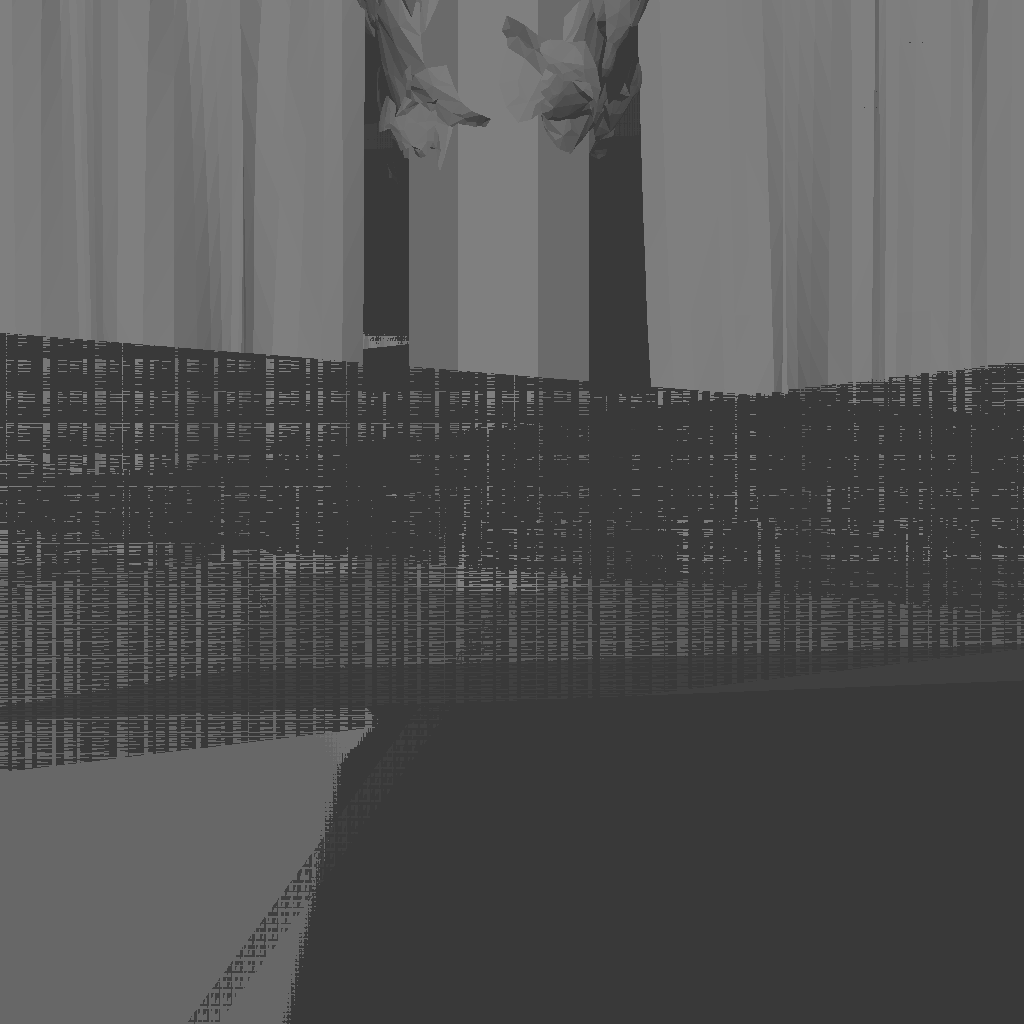
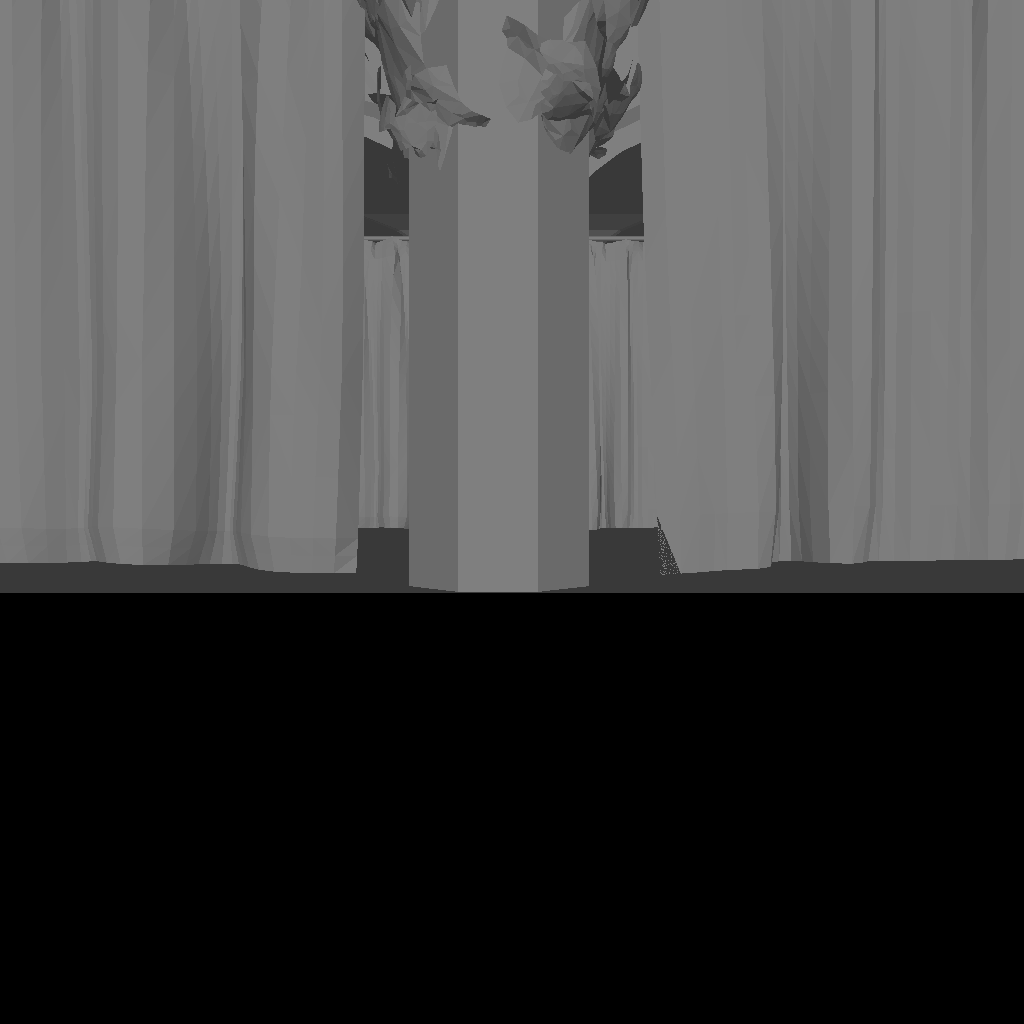
fix: 补上近平面剔除；上一版提交里的 Sponza 数据全部作废重测
一、问题
把相机放进建筑内部之后，262 267 个三角形里有 7 788 个（2.97%）至少有一个顶点落在
相机平面上或其后 —— 实测相机到最近顶点的距离只有 1e-5。透视除法会把这种顶点放大到
无穷远，它们被光栅化成盖满屏幕的巨大多边形、再带上毫无意义的深度，于是：
  · 普通 Z-Buffer 要 5 871.91 ms，几乎全花在这些本不该存在的巨大多边形上；
  · 四种算法之间的像素差异高达 52.66%（同一批三角形、同一套深度定义）；
  · 上一版汇报的「简单模式快 14.0×」是这个假象的产物，不是真实的算法收益。

二、改动
Model::mvpTransform 现在自己算齐次坐标并记下 w，顶点落在近平面之内就标记为无效；
Model::isFaceValid(i) 判断一张面的三个顶点是否都有效，五个光栅化入口（普通 z-Buffer、
经典/特化扫描线、简单模式、完整模式）遇到无效面直接整张跳过。
阈值取场景自己的近平面距离（Scene::getNear），所以自带模型（都在相机前方 0.88 以外、
近平面 0.3）完全不受影响 —— verify.sh 36/36 逐字节一致，这是它没有回归的直接证据。

三、重测结果

  算法                 渲染(ms)    建结构(ms)   总(ms)
  普通 Z-Buffer           65.42        —         65.42
  经典扫描线            43903.3      17.65     43921
  特化扫描线              49.21        —         49.21
  简单模式                46.22       0.20       46.42
  完整模式（BVH）         67.68      68.48      136.36
  完整模式（八叉树）      72.78      21.00       93.99

  · 普通 Z-Buffer 5871.91 -> 65.42 ms（-98.9%），一刀砍掉 99% 的工作量；
  · 四算法与普通 Z-Buffer 的像素差异 52.66% -> 3.40%（与自带模型的正常水平一致）；
  · 简单模式相对普通 Z-Buffer 的真实收益是 1.41×，此前汇报的 14.0× 作废；
  · 经典扫描线仍然失效：43903 ms，输出整屏只有一种颜色（纯色 109）。
    活动边表在没有裁剪、三角形又远超视口时会被撑爆，是数据结构的固有弱点，
    与本次改动无关（改动前后都是 44 秒量级）。

四、剔除统计（重测）
BVH 32 481 个节点只剔掉 220 棵子树（0.7%），三角形级 247 935 个测试里 161 660 个通过
（剔掉 35%）。和体素城市相反：室内场景里物体空间的包围盒投影到屏幕上又大又互相重叠，
粗层判据很难判死，真正干活的是逐三角形的金字塔测试。

README 的 sponza 一节和 6 张结果图已按重测数据全部更新。
验证：verify.sh 36/36 逐字节一致；MSBuild Release|x64 通过。

diff --git a/src/model.hpp b/src/model.hpp
@@ -102,7 +102,22 @@ public:
 	void calAxisParamsObject();
 	/*! @brief 清除变换后的顶点数组
 	 */
-	void clear() { delete[] m_mvpVertices; m_mvpVertices = nullptr; }
+	void clear() { delete[] m_mvpVertices; m_mvpVertices = nullptr; m_vertexValid.clear(); }
+	/*! @brief 判断一张面是否值得光栅化
+	 *
+	 *  只要有一个顶点落在近平面之内（离相机比近平面还近），透视除法就会把它的屏幕坐标
+	 *  放大到没有意义，而本工程没有做真正的视锥裁剪 —— 这种面会被光栅化成巨大的多边形
+	 *  并带上毫无意义的深度，把正确的结果整个盖掉。所以整张面直接跳过。
+	 *  自带模型都在相机前方 0.88 以外，默认近平面距离 0.3，不会误伤。
+	 *  @param[in] i: 面的索引
+	 *  @return true 表示该面的三个顶点都在近平面之外
+	 */
+	inline bool isFaceValid(int i) const {
+		if (m_vertexValid.empty()) {
+			return true;
+		}
+		return m_vertexValid[m_faces[i][0]] && m_vertexValid[m_faces[i][1]] && m_vertexValid[m_faces[i][2]];
+	}
 
 	/*! @brief 获取模型的顶点数量
 	 *  @return 模型的顶点数量
@@ -126,6 +141,8 @@ private:
 	/*! @brief 模型进行MVP变换后的顶点数组
 	 */
 	glm::vec3* m_mvpVertices;
+	/*! @brief 每个顶点是否在近平面之外（0 表示离相机太近，含该顶点的面直接跳过） */
+	std::vector<unsigned char> m_vertexValid;
 	/*! @brief 模型的面数组，其中面使用3个顶点的索引进行存储
 	 */
 	std::vector<std::array<int, 3>> m_faces;

diff --git a/src/scanlineZBuffer.cpp b/src/scanlineZBuffer.cpp
@@ -68,6 +68,9 @@ void ScanlineZBuffer::rasterizeScene(Model& model, Scene& scene) {
 		const float ambient = scene.getAmbient();
 		glm::vec3 face[3];
 		for (int i = 0; i < faceNum; i++) {
+			if (!model.isFaceValid(i)) {
+				continue;   //顶点离相机太近，投影没有意义，整张面跳过
+			}
 			model.getFace(i, face);
 			glm::vec3 normal = glm::normalize(glm::cross(face[1] - face[0], face[2] - face[0]));
 			float diffuseIntensity = ambient + (1.0f - ambient) * glm::max(0.f, glm::dot(normal, lightDirection));
@@ -229,6 +232,9 @@ void ScanlineZBuffer::generateTables(Model& model, Scene& scene) {
 	const float ambient = scene.getAmbient();
 	glm::vec3 face[3];
 	for (int i = 0; i < faceNum; i++) {
+		if (!model.isFaceValid(i)) {
+			continue;   //顶点离相机太近，投影没有意义，整张面跳过
+		}
 		model.getFace(i, face);
 		glm::vec3 normal = glm::normalize(glm::cross(face[1] - face[0], face[2] - face[0]));
 		float diffuseIntensity = ambient + (1.0f - ambient) * glm::max(0.f, glm::dot(normal, lightDirection));

diff --git a/src/model.cpp b/src/model.cpp
@@ -121,8 +121,17 @@ void Model::getMVPFace(int i, glm::vec3 face[3]) const {
 void Model::mvpTransform(Scene& scene) {
 	delete[] m_mvpVertices;
 	m_mvpVertices = new glm::vec3[m_vertexNum];
+	m_vertexValid.assign(m_vertexNum, 1);
+	//这里自己算齐次坐标而不复用 scene.mvpTransform，是为了拿到 w —— 判断顶点是否落在
+	//近平面之内靠的就是它。见 isFaceValid 的说明。
+	const glm::mat4& mvp = scene.getMVP();
+	const float nearDistance = scene.getNear();
 	for (int i = 0; i < m_vertexNum; i++) {
-		m_mvpVertices[i] = scene.mvpTransform(m_vertices[i]);
+		const glm::vec4 transformed = glm::vec4(m_vertices[i], 1.0f) * mvp;
+		if (transformed.w >= -nearDistance) {
+			m_vertexValid[i] = 0;
+		}
+		m_mvpVertices[i] = { transformed.x / transformed.w, transformed.y / transformed.w, transformed.z / transformed.w };
 	}
 }
 

diff --git a/src/hierarchicalZBuffer.cpp b/src/hierarchicalZBuffer.cpp
@@ -119,6 +119,9 @@ bool HierarchicalZBuffer::descendPyramid(const ScreenBounds& sb, int& level, int
 void HierarchicalZBuffer::rasterizeTriangles(const std::vector<int>& triangles, Model& model, const glm::vec3& lightDirection, const glm::vec3& diffuseColor) {
     glm::vec3 face[3];
     for (auto it = triangles.begin(); it != triangles.end(); ++it) {
+        if (!model.isFaceValid(*it)) {
+            continue;   //顶点离相机太近，投影没有意义，整张面跳过
+        }
         model.getFace(*it, face);
         glm::vec3 normal = glm::normalize(glm::cross(face[1] - face[0], face[2] - face[0]));
         float diffuseIntensity = m_ambient + (1.0f - m_ambient) * glm::max(0.f, glm::dot(normal, lightDirection));

diff --git a/src/basicHierarchicalZBuffer.cpp b/src/basicHierarchicalZBuffer.cpp
@@ -53,6 +53,9 @@ void BasicHierarchicalZBuffer::rasterizeScene(Model& model, Scene& scene) {
     const float ambient = scene.getAmbient();
     glm::vec3 face[3];
     for (int i = 0; i < faceNum; i++) {
+    if (!model.isFaceValid(i)) {
+        continue;   //顶点离相机太近，投影没有意义，整张面跳过
+    }
         model.getFace(i, face);
         glm::vec3 normal = glm::normalize(glm::cross(face[1] - face[0], face[2] - face[0]));
         float diffuseIntensity = ambient + (1.0f - ambient) * glm::max(0.f, glm::dot(normal, lightDirection));

diff --git a/src/basicZBuffer.cpp b/src/basicZBuffer.cpp
@@ -56,6 +56,9 @@ void BasicZBuffer::rasterizeScene(Model& model, Scene& scene) {
     const float ambient = scene.getAmbient();
     glm::vec3 face[3];
     for (int i = 0; i < faceNum; i++) {
+    if (!model.isFaceValid(i)) {
+        continue;   //顶点离相机太近，投影没有意义，整张面跳过
+    }
         model.getFace(i, face);
         glm::vec3 normal = glm::normalize(glm::cross(face[1] - face[0], face[2] - face[0]));
         float diffuseIntensity = ambient + (1.0f - ambient) * glm::max(0.f, glm::dot(normal, lightDirection));

diff --git a/src/scene.hpp b/src/scene.hpp
@@ -65,6 +65,10 @@ public:
 	 *  @return 渲染窗口高度
 	 */
 	inline int getHeight() const{ return m_height; }
+	/*! @brief 获取近平面离相机的距离（正值）
+	 *  @return 近平面距离
+	 */
+	inline float getNear() const { return -m_near; }
 	/*! @brief 获取环境光强度
 	 *  @return 环境光强度
 	 */

diff --git a/README.md b/README.md
@@ -88,28 +88,48 @@ HierarchicalZBuffer.exe --sponza
 
 | 算法 | 渲染 | 建结构 | 总时间 |
 |---|---|---|---|
-| 普通 Z-Buffer | 5 871.91 | — | 5 871.91 |
-| 经典扫描线 | 44 694.2 | 17.85 | 44 712.1 |
-| 特化扫描线 | 476.13 | — | 476.13 |
-| **简单模式** | **418.34** | 0.20 | **418.54** |
-| 完整模式（BVH） | 479.19 | 67.36 | 546.75 |
-| 完整模式（八叉树） | 469.68 | 20.93 | 490.81 |
+| 普通 Z-Buffer | 65.42 | — | 65.42 |
+| 经典扫描线 | 43 903.3 | 17.65 | 43 921 |
+| 特化扫描线 | 49.21 | — | 49.21 |
+| **简单模式** | **46.22** | 0.20 | **46.42** |
+| 完整模式（BVH） | 67.68 | 68.48 | 136.36 |
+| 完整模式（八叉树） | 72.78 | 21.00 | 93.99 |
 
-**简单模式比普通 Z-Buffer 快 14.0×**，是全部场景里层次 Z-Buffer 收益最大的一次；
-经典扫描线在这个场景上彻底崩掉（44.7 s），可见活动边表在高 overdraw 下有多脆。
+**这个场景真正暴露出来的问题，与其说是「层次 Z-Buffer 能快多少」，不如说是
+「不做近平面裁剪会怎样」。**
 
-剔除统计：
+最早直接渲染时，普通 Z-Buffer 要 **5 871.91 ms**、简单模式要 418.34 ms，而且四种算法
+之间的像素差异高达 **52.66%** —— 同一批三角形、同一套深度定义，结果却对不上。
+排查发现：相机放进门厅后，**7 788 个三角形（2.97%）至少有一个顶点落在相机平面上或
+其后**（实测相机到最近顶点的距离只有 1e-5）。透视除法会把这种顶点放大到无穷远，
+它们被光栅化成盖满屏幕的巨大多边形、再带上毫无意义的深度，谁输谁赢全看数值噪声。
+
+补上「只要有顶点落在近平面之内就整张面跳过」（`Model::isFaceValid`）之后：
+
+| | 剔除前 | 剔除后 |
+|---|---|---|
+| 普通 Z-Buffer | 5 871.91 ms | **65.42 ms** |
+| 简单模式 | 418.34 ms | 46.22 ms |
+| 四种算法 vs 普通 Z-Buffer 的像素差异 | 52.66% | **3.40%** |
+
+一刀砍掉 99% 的工作量，说明原先绝大部分时间都花在光栅化那些本就不该存在的巨大多边形上。
+
+**经典扫描线在这个场景上完全失效**：43.9 秒，而且输出是**整屏只有一种颜色**（纯色 109）
+—— 一张巨大三角形盖满了整个画面。活动边表在没有裁剪、三角形又远超视口时会被撑爆，
+这是该数据结构的固有弱点，与本次改动无关（改动前同样是 44.7 秒）。
+
+剔除统计（近平面剔除之后）：
 
 | | 节点 | 被剔除子树 | 三角形测试 | 实际光栅化 |
 |---|---|---|---|---|
-| BVH | 32 153 | 356（1.1%） | 251 650 | 102 715（剔除 59%） |
-| 八叉树 | 45 747 | 600（1.3%） | 255 626 | 177 055 |
+| BVH | 32 481 | 220（0.7%） | 247 935 | 161 660（剔除 35%） |
+| 八叉树 | 45 758 | 586（1.3%） | 247 290 | 181 327 |
 
-这里有个和体素城市**相反**的现象：**节点级剔除几乎不起作用（1.1%），真正干活的是
-逐三角形的金字塔测试（剔除 59%）**。原因是室内场景里物体空间的包围盒投影到屏幕上
+这里有个和体素城市**相反**的现象：**节点级剔除几乎不起作用（0.7%），真正干活的是
+逐三角形的金字塔测试（剔除 35%）**。原因是室内场景里物体空间的包围盒投影到屏幕上
 都很大而且互相重叠，粗层判据很难判死；而单个三角形很小，被遮挡就很容易拒绝。
-所以**简单模式（只有金字塔）几乎拿到了全部收益**（418 vs 479 ms），
-完整模式反而要额外付出 57 ms（BVH）/ 17.5 ms（八叉树）的建树成本。
+所以**简单模式（只有金字塔）拿到了几乎全部收益**（渲染 46.22 ms，甚至比完整模式的
+67.68 ms 还快），完整模式反而要额外付出 68 ms（BVH）/ 21 ms（八叉树）的建树成本。
 
 ## 关于层次 Z-Buffer 的四条实测结论
 
